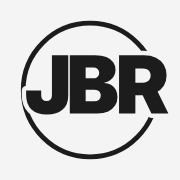
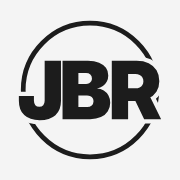
Centre JBR in the ring; topic search matches the specification
- The letters sit centred in the ring (on their cap height), overhanging it
  equally on both sides.
- Typing in the Topic filter also finds topics whose specification
  statements, everyday synonyms or tagging keywords contain every word typed
  ("kinetic theory" or "solubility" -> 1(a) States of matter). Name matches
  come first; the others say what they cover. data/topic-search.js holds the
  words (tools/spec_text.py reads spec.pdf, tools/topic_search.py writes it).

Claude-Session: https://claude.ai/code/session_01EWTTcu4v7BLRwhYKZxZmtF

Changed region(s): [[0.0833, 0.2778, 0.9444, 0.6944]]

diff --git a/hub.js b/hub.js
@@ -45,7 +45,7 @@
   }
 
   // Josh B Revision logo (heavy JBR running past a ring that breaks where the letters cross it); colours come from hub.css
-  var JBR_LOGO = '<svg class="jbr" viewBox="0 0 248 248" aria-hidden="true"><defs><mask id="jbr-ring-gap" maskUnits="userSpaceOnUse" x="0" y="0" width="248" height="248"><rect width="248" height="248" fill="#fff"/><g transform="translate(36.00 156.50) scale(0.05402 -0.05402)" fill="#000" stroke="#000" stroke-width="222" stroke-linejoin="round"><path transform="translate(-45 0)" d="M573 -24Q319 -24 182.0 105.0Q45 234 45 474V592H429V470Q429 398 464.37254901960785 359.0Q499.7450980392157 320 566 320Q631.6929133858267 320 667.3464566929133 359.0Q703 398 703 470V1490H1119V462.3348982785603Q1119 228 977.5 102.0Q836 -24 573 -24Z"/><path transform="translate(1034 0)" d="M80 0V1490H726Q896 1490 1012.0 1442.0Q1128 1394 1187.0 1310.5Q1246 1227 1246 1118Q1246 1032 1210.0 962.5Q1174 893 1109.5 847.5Q1045 802 958 785V783Q1054 780 1130.5 733.5Q1207 687 1251.5 607.0Q1296 527 1296 422Q1296 300 1235.0 204.5Q1174 109 1059.0 54.5Q944 0 782 0ZM484 312H704Q780 312 825.0 352.0Q870 392 870 459Q870 504 849.5 537.0Q829 570 792.0 588.0Q755 606 704 606H484ZM484 900H679Q725 900 759.0 917.0Q793 934 811.5 965.5Q830 997 830 1039Q830 1102 789.0 1140.0Q748 1178 679 1178H484Z"/><path transform="translate(2290 0)" d="M80 0V1490H713Q891 1490 1021.0 1426.5Q1151 1363 1221.5 1246.5Q1292 1130 1292 970Q1292 815 1218.5 702.0Q1145 589 1010.5 527.5Q876 466 691 466H336V788H682Q745 788 790.5 811.0Q836 834 861.0 875.0Q886 916 886 970Q886 1025 861.0 1065.5Q836 1106 790.5 1129.0Q745 1152 682 1152H496V0ZM905 0 581 676H1006L1338 0Z"/></g></mask></defs><circle cx="124" cy="124" r="92" fill="none" stroke-width="6.5" mask="url(#jbr-ring-gap)" class="jbr-ring"/><g class="jbr-ink"><g transform="translate(36.00 156.50) scale(0.05402 -0.05402)"><path transform="translate(-45 0)" d="M573 -24Q319 -24 182.0 105.0Q45 234 45 474V592H429V470Q429 398 464.37254901960785 359.0Q499.7450980392157 320 566 320Q631.6929133858267 320 667.3464566929133 359.0Q703 398 703 470V1490H1119V462.3348982785603Q1119 228 977.5 102.0Q836 -24 573 -24Z"/><path transform="translate(1034 0)" d="M80 0V1490H726Q896 1490 1012.0 1442.0Q1128 1394 1187.0 1310.5Q1246 1227 1246 1118Q1246 1032 1210.0 962.5Q1174 893 1109.5 847.5Q1045 802 958 785V783Q1054 780 1130.5 733.5Q1207 687 1251.5 607.0Q1296 527 1296 422Q1296 300 1235.0 204.5Q1174 109 1059.0 54.5Q944 0 782 0ZM484 312H704Q780 312 825.0 352.0Q870 392 870 459Q870 504 849.5 537.0Q829 570 792.0 588.0Q755 606 704 606H484ZM484 900H679Q725 900 759.0 917.0Q793 934 811.5 965.5Q830 997 830 1039Q830 1102 789.0 1140.0Q748 1178 679 1178H484Z"/><path transform="translate(2290 0)" d="M80 0V1490H713Q891 1490 1021.0 1426.5Q1151 1363 1221.5 1246.5Q1292 1130 1292 970Q1292 815 1218.5 702.0Q1145 589 1010.5 527.5Q876 466 691 466H336V788H682Q745 788 790.5 811.0Q836 834 861.0 875.0Q886 916 886 970Q886 1025 861.0 1065.5Q836 1106 790.5 1129.0Q745 1152 682 1152H496V0ZM905 0 581 676H1006L1338 0Z"/></g></g></svg>';
+  var JBR_LOGO = '<svg class="jbr" viewBox="0 0 248 248" aria-hidden="true"><defs><mask id="jbr-ring-gap" maskUnits="userSpaceOnUse" x="0" y="0" width="248" height="248"><rect width="248" height="248" fill="#fff"/><g transform="translate(26.00 164.25) scale(0.05402 -0.05402)" fill="#000" stroke="#000" stroke-width="222" stroke-linejoin="round"><path transform="translate(-45 0)" d="M573 -24Q319 -24 182.0 105.0Q45 234 45 474V592H429V470Q429 398 464.37254901960785 359.0Q499.7450980392157 320 566 320Q631.6929133858267 320 667.3464566929133 359.0Q703 398 703 470V1490H1119V462.3348982785603Q1119 228 977.5 102.0Q836 -24 573 -24Z"/><path transform="translate(1034 0)" d="M80 0V1490H726Q896 1490 1012.0 1442.0Q1128 1394 1187.0 1310.5Q1246 1227 1246 1118Q1246 1032 1210.0 962.5Q1174 893 1109.5 847.5Q1045 802 958 785V783Q1054 780 1130.5 733.5Q1207 687 1251.5 607.0Q1296 527 1296 422Q1296 300 1235.0 204.5Q1174 109 1059.0 54.5Q944 0 782 0ZM484 312H704Q780 312 825.0 352.0Q870 392 870 459Q870 504 849.5 537.0Q829 570 792.0 588.0Q755 606 704 606H484ZM484 900H679Q725 900 759.0 917.0Q793 934 811.5 965.5Q830 997 830 1039Q830 1102 789.0 1140.0Q748 1178 679 1178H484Z"/><path transform="translate(2290 0)" d="M80 0V1490H713Q891 1490 1021.0 1426.5Q1151 1363 1221.5 1246.5Q1292 1130 1292 970Q1292 815 1218.5 702.0Q1145 589 1010.5 527.5Q876 466 691 466H336V788H682Q745 788 790.5 811.0Q836 834 861.0 875.0Q886 916 886 970Q886 1025 861.0 1065.5Q836 1106 790.5 1129.0Q745 1152 682 1152H496V0ZM905 0 581 676H1006L1338 0Z"/></g></mask></defs><circle cx="124" cy="124" r="92" fill="none" stroke-width="6.5" mask="url(#jbr-ring-gap)" class="jbr-ring"/><g class="jbr-ink"><g transform="translate(26.00 164.25) scale(0.05402 -0.05402)"><path transform="translate(-45 0)" d="M573 -24Q319 -24 182.0 105.0Q45 234 45 474V592H429V470Q429 398 464.37254901960785 359.0Q499.7450980392157 320 566 320Q631.6929133858267 320 667.3464566929133 359.0Q703 398 703 470V1490H1119V462.3348982785603Q1119 228 977.5 102.0Q836 -24 573 -24Z"/><path transform="translate(1034 0)" d="M80 0V1490H726Q896 1490 1012.0 1442.0Q1128 1394 1187.0 1310.5Q1246 1227 1246 1118Q1246 1032 1210.0 962.5Q1174 893 1109.5 847.5Q1045 802 958 785V783Q1054 780 1130.5 733.5Q1207 687 1251.5 607.0Q1296 527 1296 422Q1296 300 1235.0 204.5Q1174 109 1059.0 54.5Q944 0 782 0ZM484 312H704Q780 312 825.0 352.0Q870 392 870 459Q870 504 849.5 537.0Q829 570 792.0 588.0Q755 606 704 606H484ZM484 900H679Q725 900 759.0 917.0Q793 934 811.5 965.5Q830 997 830 1039Q830 1102 789.0 1140.0Q748 1178 679 1178H484Z"/><path transform="translate(2290 0)" d="M80 0V1490H713Q891 1490 1021.0 1426.5Q1151 1363 1221.5 1246.5Q1292 1130 1292 970Q1292 815 1218.5 702.0Q1145 589 1010.5 527.5Q876 466 691 466H336V788H682Q745 788 790.5 811.0Q836 834 861.0 875.0Q886 916 886 970Q886 1025 861.0 1065.5Q836 1106 790.5 1129.0Q745 1152 682 1152H496V0ZM905 0 581 676H1006L1338 0Z"/></g></g></svg>';
 
   // ------------------------------------------------------------------ light / dark
   var RAYS = [0, 45, 90, 135, 180, 225, 270, 315].map(function (a) {
